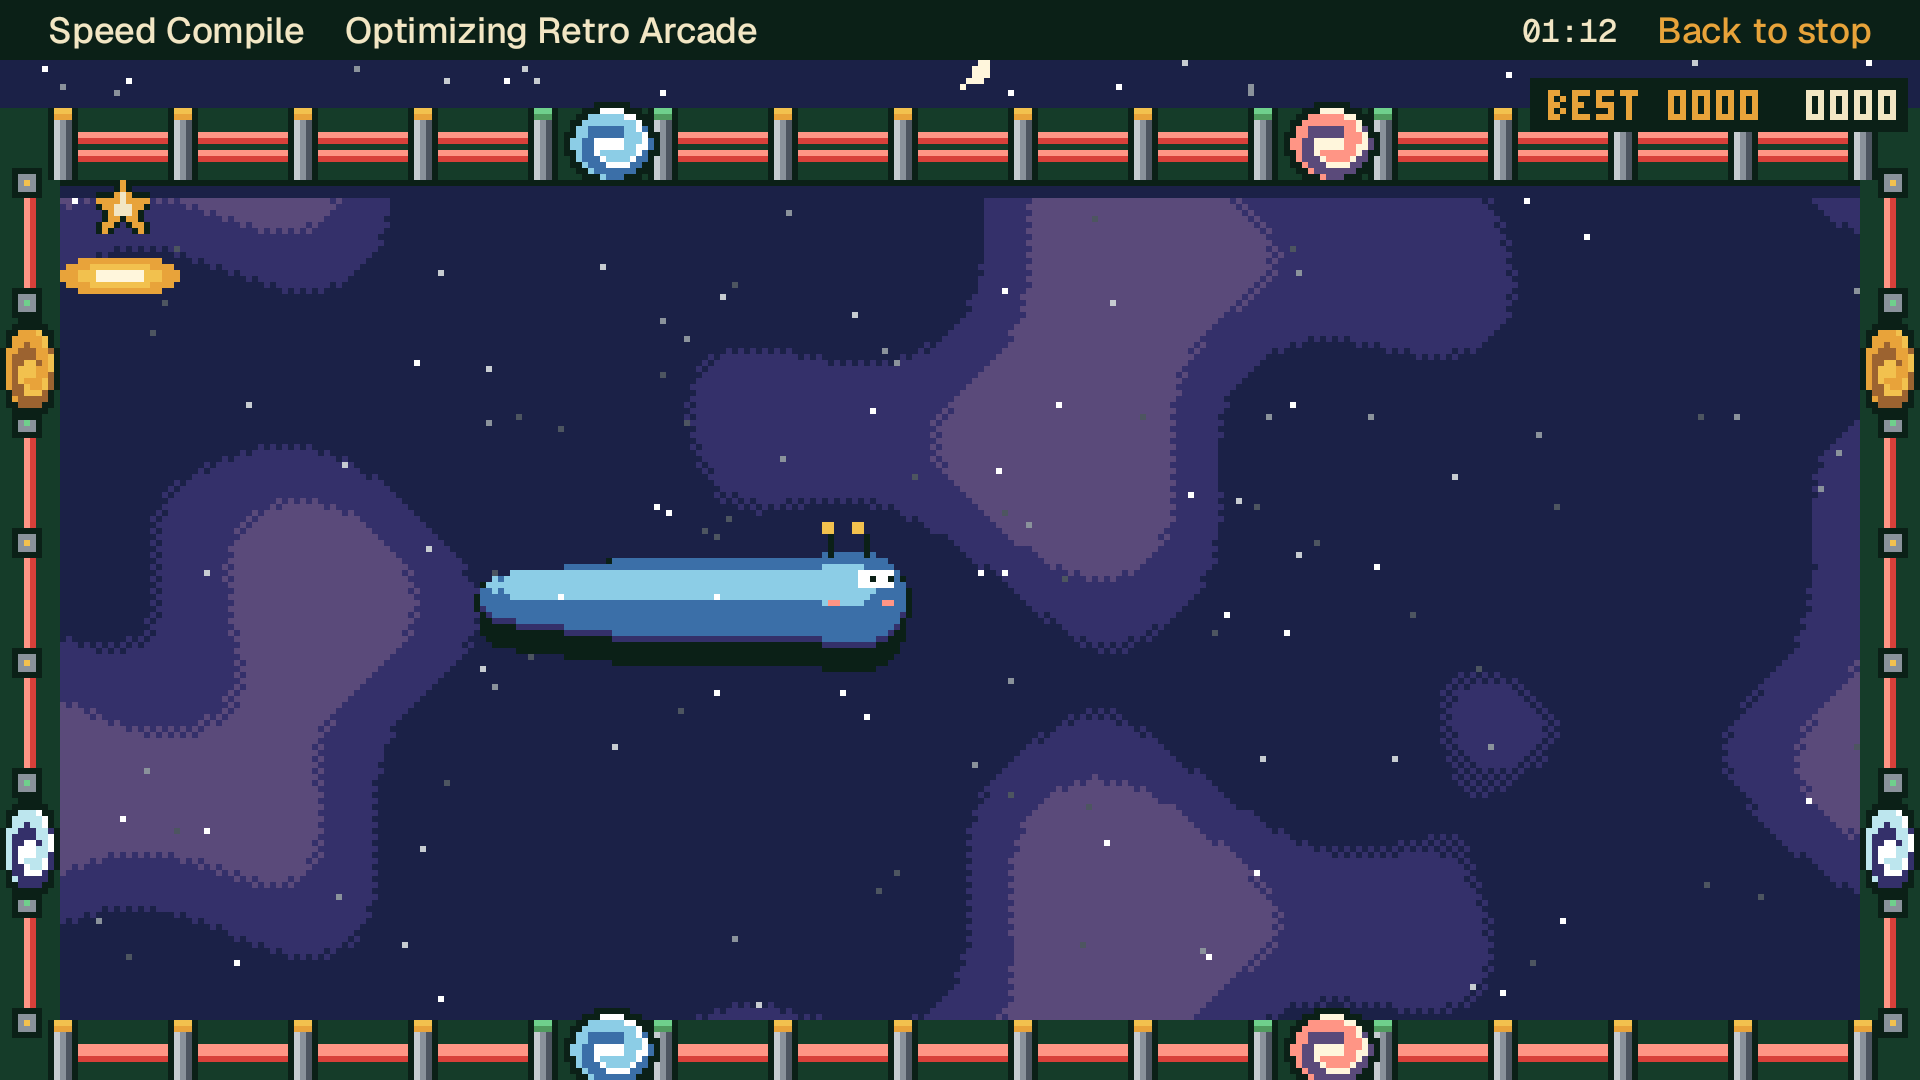
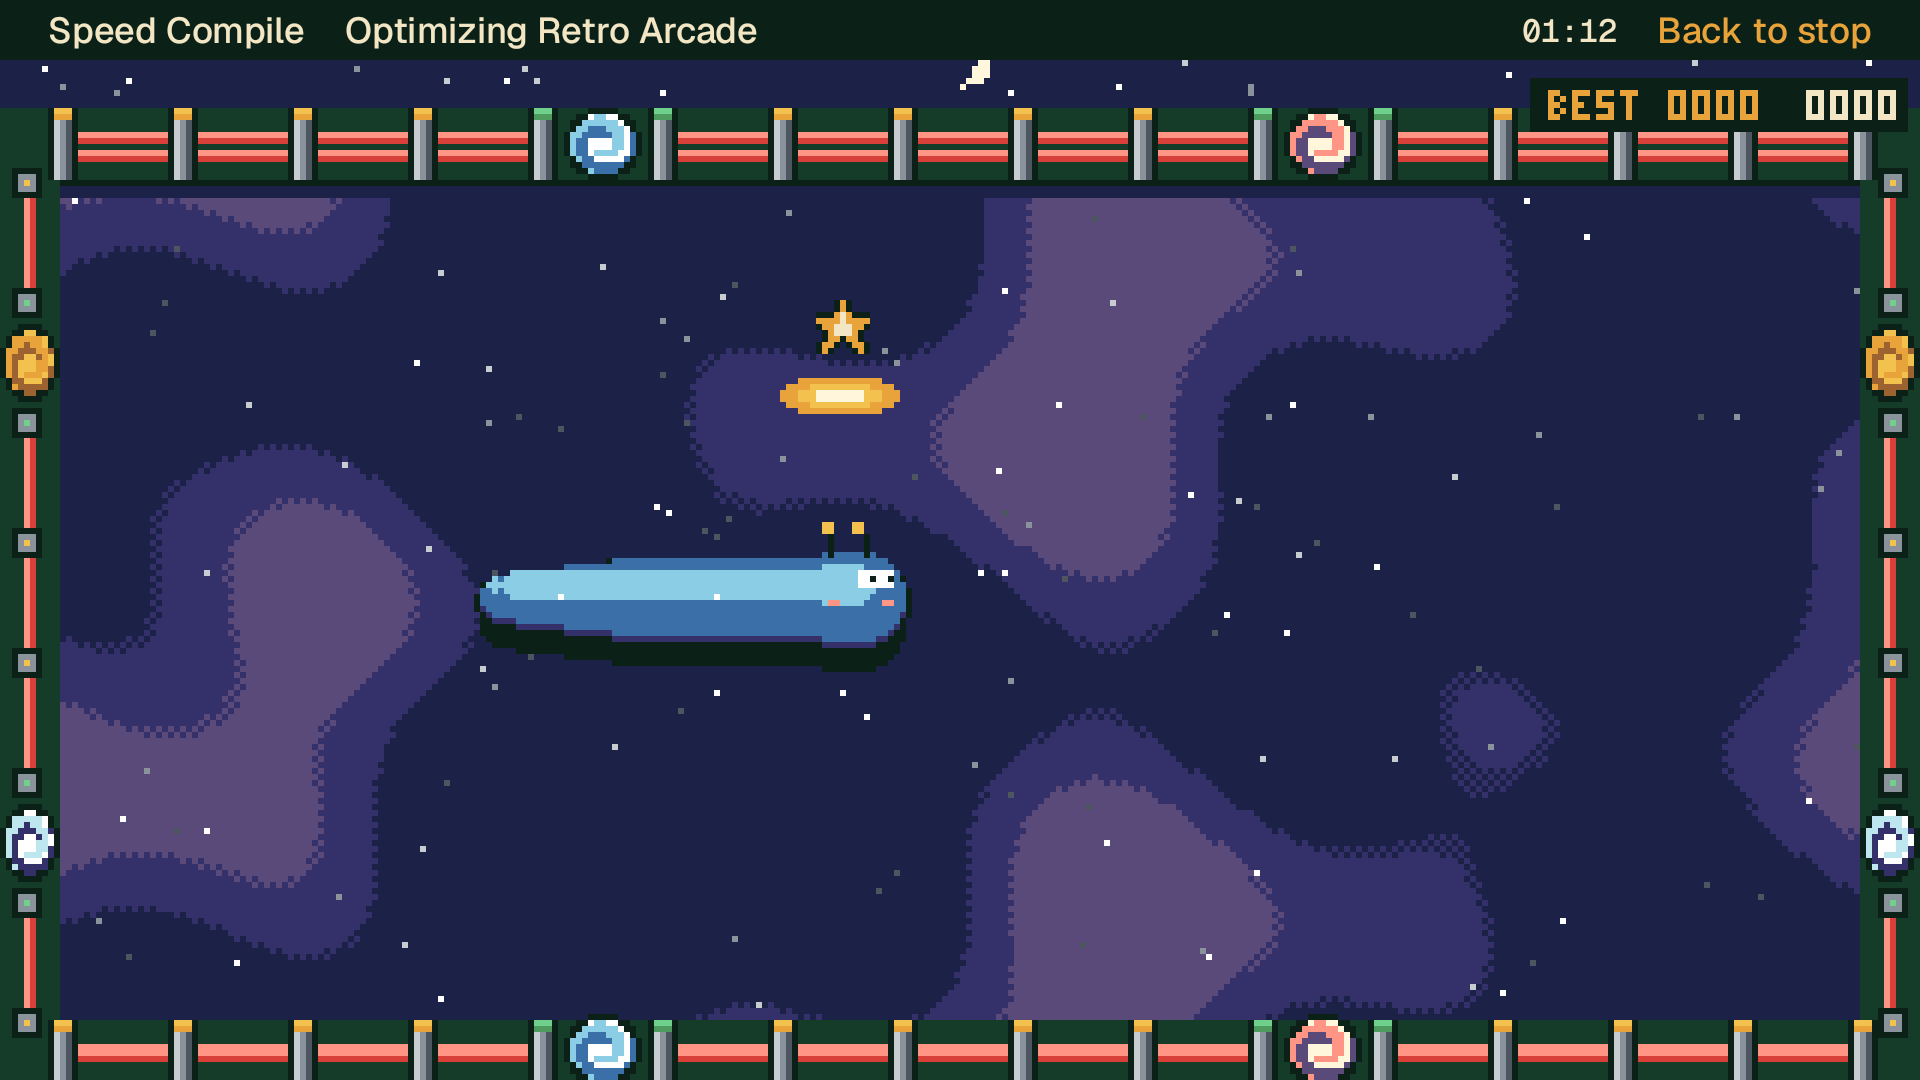
Cosmic Worm: centre the gate portals between their posts
Portals were 16x14 (top/bottom) and 10x17 (sides) in a 15 px gap, so
they overlapped a post and could not be centred. Now 13x12 and 10x13,
odd spans centred with 1 px clearance on each side.

diff --git a/app/src/main/kotlin/dev/speedcompiler/tv/ui/working/games/CosmicWorm.kt b/app/src/main/kotlin/dev/speedcompiler/tv/ui/working/games/CosmicWorm.kt
@@ -130,7 +130,7 @@ class CosmicWorm(private val rng: Random = Random.Default) : Game {
         val P_WIDE = booleanArrayOf(true, true, true, true, false, false, false, false)
         val P_PAIR = intArrayOf(0, 0, 1, 1, 2, 2, 3, 3)
         val P_X = intArrayOf(14 + 4 * 20, 14 + 4 * 20, 14 + 10 * 20, 14 + 10 * 20, 0, 310, 0, 310)
-        val P_Y = intArrayOf(17, 168, 17, 168, 33 + 1 * 20, 33 + 1 * 20, 33 + 5 * 20, 33 + 5 * 20)
+        val P_Y = intArrayOf(18, 169, 18, 169, 34 + 1 * 20, 34 + 1 * 20, 34 + 5 * 20, 34 + 5 * 20)
     }
 }
 
@@ -177,10 +177,10 @@ private class WormRenderer(
         val pf = floor(g.t * 8f).toInt() % 4
         for (i in 0 until CosmicWorm.PORTALS) {
             val wide = CosmicWorm.P_WIDE[i]
-            val w = if (wide) 16 else 10; val h = if (wide) 14 else 17
+            val w = if (wide) 13 else 10; val h = if (wide) 12 else 13
             s.img(if (wide) portalW else portalN, (CosmicWorm.P_PAIR[i] * 4 + pf) * w, 0, w, h, CosmicWorm.P_X[i].toFloat(), CosmicWorm.P_Y[i].toFloat())
             val f = g.flash[i]
-            if (f >= 0f) s.img(sparkle, min(3, (f / 0.1f).toInt()) * 11, 0, 11, 11, (CosmicWorm.P_X[i] + if (wide) 2 else -1).toFloat(), (CosmicWorm.P_Y[i] + if (wide) 1 else 3).toFloat())
+            if (f >= 0f) s.img(sparkle, min(3, (f / 0.1f).toInt()) * 11, 0, 11, 11, (CosmicWorm.P_X[i] + if (wide) 1 else -1).toFloat(), (CosmicWorm.P_Y[i] + if (wide) 0 else 1).toFloat())
         }
         if (g.sparkle >= 0f) s.img(sparkle, min(3, (g.sparkle / 0.1f).toInt()) * 11, 0, 11, 11, (20 + 20 * g.sparkleX - 5).toFloat(), (40 + 20 * g.sparkleY - 12).toFloat())
         s.shake = 0

diff --git a/tools/pixel/games/gen3.py b/tools/pixel/games/gen3.py
@@ -226,7 +226,7 @@ PORTAL_COLORS = [("blue", "sky2", "white"), ("plum", "pink", "cream2"), ("brown"
 
 def portals():
     """Swirling portals for the force-field gates: 4 pair colors x 4 frames, wide (top/bottom gates) and narrow (side gates)."""
-    for name, (w, h) in (("cg_portal_w", (16, 14)), ("cg_portal_n", (10, 17))):
+    for name, (w, h) in (("cg_portal_w", (13, 12)), ("cg_portal_n", (10, 13))):  # odd span: centred in the 15 px gap between posts
         frames = []
         for cols in PORTAL_COLORS:
             for f in range(4):
